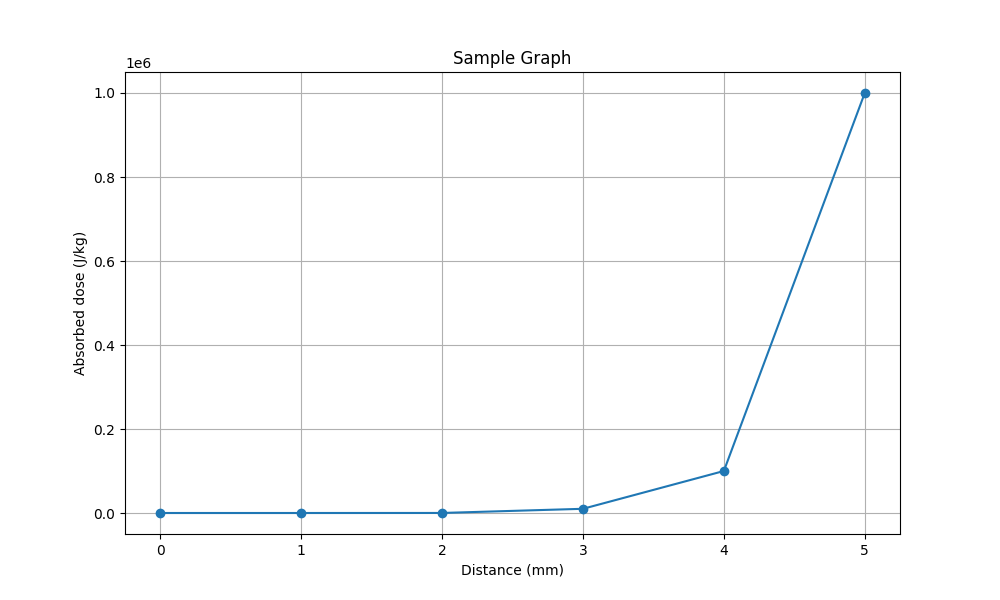
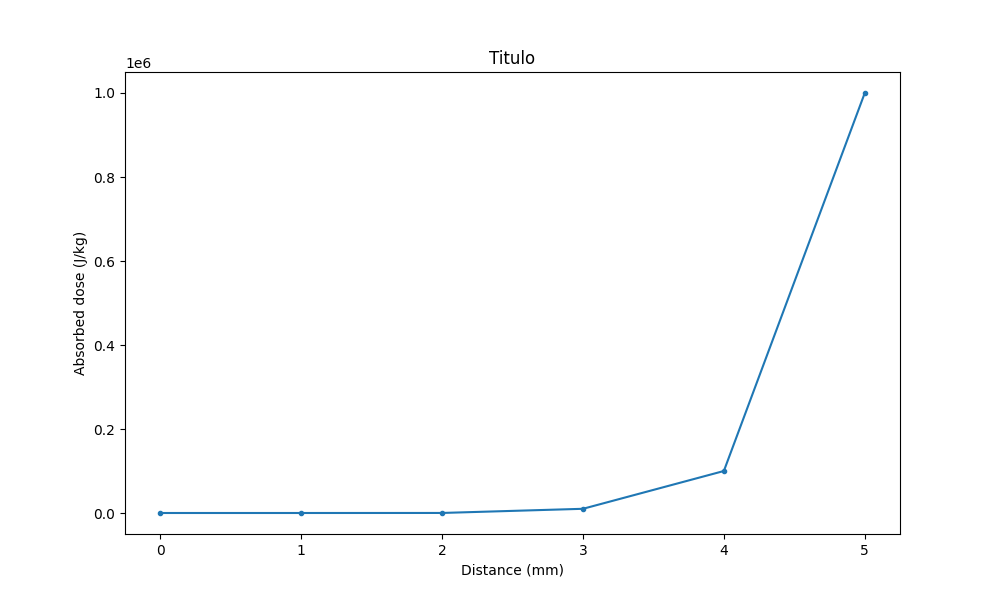
fix on stddev function

diff --git a/nel_calc/nel_aux.py b/nel_calc/nel_aux.py
@@ -124,7 +124,7 @@ def FindStdDev(numberList: list) -> float:
     acum = 0
     for number in numberList:
         acum = acum + (number - average) ** 2
-    return (acum / len(numberList)) ** 0.5
+    return (acum / (len(numberList)-1)) ** 0.5
 
 def FindExpectedValue(numberList: list) -> float:
     return FindAverage(numberList)